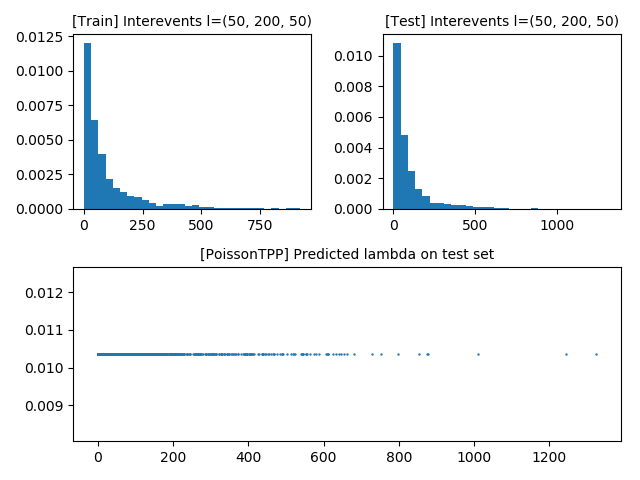
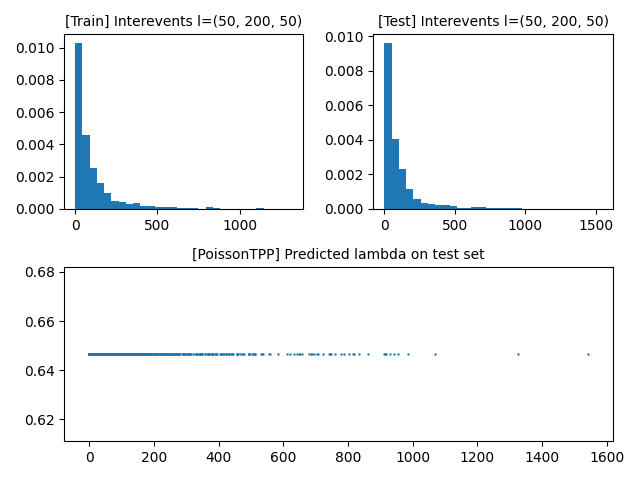
train on generated data scripts

diff --git a/src/generated_with_step_train.py b/src/generated_with_step_train.py
@@ -19,12 +19,8 @@ from v2.PoissonPolynomialFirstOrderTPP import PoissonPolynomialFirstOrderTPP
 from v2.SelfCorrectingTPP import SelfCorrectingTPP
 from v2.HawkesSumGaussianTPP import HawkesSumGaussianTPP
 from v2.HawkesTPP import HawkesTPP
-
-def generate_process_with_exponential_interevent(first_event_time, lambda_gen=100, n_events=500):
-    event_time = [first_event_time]
-    for i in range(n_events):
-        event_time.append(event_time[-1] + round(np.random.exponential(lambda_gen)))
-    return event_time
+from generated_with_const_train import generate_process_with_exponential_interevent, get_interevents, \
+    expectation_of_lambda_per_second, expectation_of_lambda_as_mean_of_interevents, plot_results
 
 
 def generate_mixed_process_based_on_lambda(first_event_time, lambdas, n_events):
@@ -35,36 +31,6 @@ def generate_mixed_process_based_on_lambda(first_event_time, lambdas, n_events):
                                                                    n_events=n_events[i])
         events = events + events_part
     return events
-
-
-def get_interevents(events):
-    shift_right = events[:-1]
-    shift_right.insert(0, 0)
-    return np.array(events) - np.array(shift_right)
-
-
-def expectation_of_lambda_per_second(events):
-    return (events[-1] - events[0]) / len(events)
-
-
-def expectation_of_lambda_as_mean_of_interevents(interevent_time):
-    return interevent_time.mean()
-
-
-def plot_results(model, train, test, l, figpath):
-    plt.clf()
-    ax = plt.subplot("221")
-    ax.set_title(f"[Train] Interevents l={l}", fontsize=10)
-    ax.hist(train, density=True, bins=30)
-    ax = plt.subplot("222")
-    ax.set_title(f"[Test] Interevents l={l}", fontsize=10)
-    ax.hist(test, density=True, bins=30)
-    ax = plt.subplot("212")
-    ax.set_title(f"[{type(model).__name__}] Predicted lambda on test set", fontsize=10)
-    ax.scatter(test, predicted_lambdas.data.numpy().flatten(), s=0.5)
-    plt.tight_layout()
-    plt.savefig(figpath)
-    plt.show()
 
 
 if __name__ == "__main__":
@@ -91,7 +57,7 @@ if __name__ == "__main__":
     test_time = torch.tensor(test_events).type('torch.FloatTensor').reshape(1, -1, 1)
     in_size = 100
     out_size = 1
-    no_epochs = 1000
+    no_epochs = 2000
 
     learning_param_map = [
         {'rule': 'Euler', 'no_step': 10, 'learning_rate': 0.001}
@@ -148,7 +114,7 @@ if __name__ == "__main__":
 
                     predicted_lambdas = bb_train.predict(model, test_time, in_size)
 
-                    plot_results(model, train_interevents, test_interevents, l=l_generator,
+                    plot_results(model, train_interevents, test_interevents, predicted_lambdas, l=l_generator,
                                  figpath=f"{project_dir}/img/dummy/{model_name}.png")
                     model_filepath = f"{project_dir}/models/dummy/{model_name}.torch"
                     pickle.dump(model, open(model_filepath, 'wb'))

diff --git a/src/generated_with_const_train.py b/src/generated_with_const_train.py
@@ -49,7 +49,7 @@ def expectation_of_lambda_as_mean_of_interevents(interevent_time):
     return interevent_time.mean()
 
 
-def plot_results(model, train, test, l, figpath):
+def plot_results(model, train, test, predicted_lambdas, l, figpath):
     plt.clf()
     ax = plt.subplot("221")
     ax.set_title(f"[Train] Interevents l={l}", fontsize=10)
@@ -89,7 +89,7 @@ if __name__ == "__main__":
     test_time = torch.tensor(test_events).type('torch.FloatTensor').reshape(1, -1, 1)
     in_size = 100
     out_size = 1
-    no_epochs = 1000
+    no_epochs = 2000
 
     learning_param_map = [
         {'rule': 'Euler', 'no_step': 10, 'learning_rate': 0.001}
@@ -146,7 +146,7 @@ if __name__ == "__main__":
 
                     predicted_lambdas = bb_train.predict(model, test_time, in_size)
 
-                    plot_results(model, train_interevents, test_interevents, l=l_generator,
+                    plot_results(model, train_interevents, test_interevents, predicted_lambdas, l=l_generator,
                                  figpath=f"{project_dir}/img/dummy/{model_name}.png")
                     model_filepath = f"{project_dir}/models/dummy/{model_name}.torch"
                     pickle.dump(model, open(model_filepath, 'wb'))
